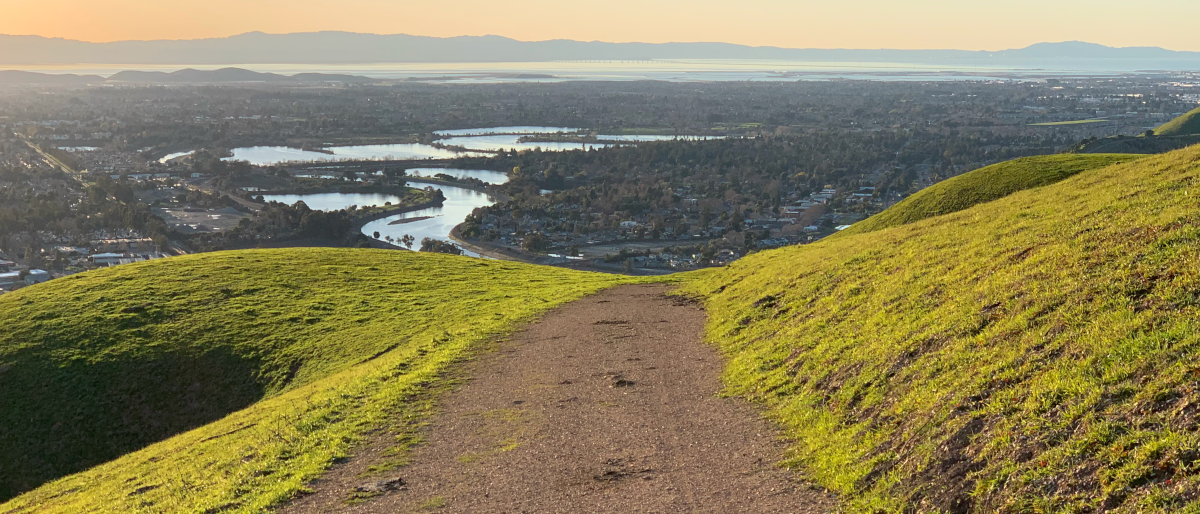
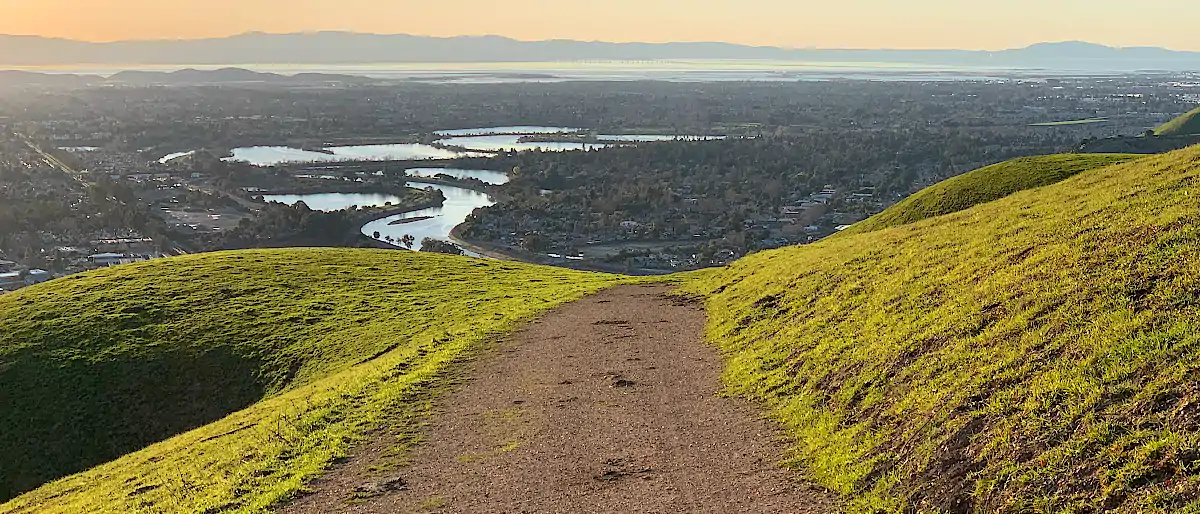
Timestamp, Responsive hero, details

diff --git a/chamber/join.html b/chamber/join.html
@@ -67,17 +67,28 @@
     </header>
     <main>
         <div id="wide-hero">
-            <img src="images/hero_join_1200.webp">
+            <picture>
+                <source media="(min-width: 63em)" srcset="images/hero_join_1200.webp">
+                <!--These parent div isn't linear with viewport-->
+                <source media="(min-width: 28em)" srcset="images/hero_join_800.webp">
+                <img src="images/hero_join_400.webp" alt="Cool people doing cool things.">
+            </picture>
             <h2>
                 Your gateway to Fremont Business
             </h2>
+        </div>
+        <div id="join-greeting">
+            <div class="gradient-backdrop">
+                <h2>Join</h2>
+                Joining the Freemont Chamber of Commerce is a good way to get you on the inside track with other Fremont businesses. Take a look at our membership levels and see which one works for you and your business. Join up, we know you won't regret it.
+            </div>
         </div>
         <div id="join-form">
             <div class="gradient-backdrop">
                 <form method="get" action="thankyou.html">
                     <label>First Name* <input type="text" name="firstname" required></label>
                     <label>Last Name* <input type="text" name="lastname" required></label>
-                    <label>Business Position <input type="text" name="position" id="position" minlength="7"
+                    <label>Business Title <input type="text" name="title" id="position" minlength="7"
                             pattern="^[a-zA-Z- ]{7,}"></label>
                     <label>Email* <input type="email" name="email" required placeholder="someone@domain.com"></label>
                     <label>Cell Number* <input type="tel" name="phone" required minlength="4" maxlength="14" pattern="[0-9.\-\(\) ]*"></label>
@@ -93,8 +104,8 @@
                     </label>
                     <!-- four levels. Display benefits on large view. Show increasing cost -->
                     <label>Business Description<textarea rows="7" cols="10"></textarea> </label>
-                    <input type="hidden" name="datetime">
-                    <input type="submit" name="submit">
+                    <input type="hidden" name="datetime" id="hidden-datetime">
+                    <input type="submit" name="submit" value="Join">
                 </form>
             </div>
         </div>
@@ -140,7 +151,7 @@
     <script src="scripts/burger.js"></script>
     <script src="scripts/pinnedmenu.js"></script>
     <script src="scripts/alerts.js"></script>
-    <script src="scripts/validate.js"></script>
+    <script src="scripts/datestamp.js"></script>
 </body>
 
 </html>

diff --git a/chamber/scripts/datestamp.js b/chamber/scripts/datestamp.js
@@ -2,8 +2,25 @@ const currentDate = new Date();
 const currentYear = currentDate.getFullYear();
 
 
-document.querySelector("#year-field").innerText = currentYear;
-document.querySelector("#last-update-field").innerText = document.lastModified;
-document.querySelector("#current-date").textContent = Intl.DateTimeFormat("en-UK", {
-	dateStyle: "full"
-}).format(currentDate);
+const yearFieldID = document.querySelector("#year-field");
+if (yearFieldID != null) {
+	yearFieldID.innerText = currentYear;
+}
+
+
+const lastUpdateID = document.querySelector("#last-update-field");
+if (lastUpdateID != null) {
+	lastUpdateID.innerText = document.lastModified;
+}
+
+const currentDateID = document.querySelector("#current-date");
+if (currentDateID != null) {
+	currentDateID.textContent = Intl.DateTimeFormat("en-UK", {
+		dateStyle: "full"
+	}).format(currentDate);
+}
+
+const formField = document.querySelector("#hidden-datetime");
+if (formField != null) {
+	formField.value = currentDate;
+}

diff --git a/chamber/styles/large.css b/chamber/styles/large.css
@@ -43,9 +43,6 @@
     #menu-mask {
         z-index: -1;
     }
-
-
-
     main {
         grid-template-columns: 1fr 2fr 1fr;
     }
@@ -121,17 +118,17 @@
     }
     #join-form {
         grid-column: 2/3;
-        grid-row: 2/4;
+        grid-row: 2/3;
     }
     #member-benefits {
         grid-column: 3/4;
-        grid-row: 2/4;
-    }
-    #member-benefits div.gradient-backdrop {
-
+        grid-row: 2/3;
     }
     #wide-hero {
         grid-column: 1/4;
+    }
+    #join-greeting {
+        grid-column: 1/2;
     }
     #response {
         grid-column: 2/3;

diff --git a/chamber/styles/base.css b/chamber/styles/base.css
@@ -191,7 +191,8 @@ main {
 #join-form,
 #member-benefits,
 #wide-hero,
-#response {
+#response,
+#join-greeting {
     background-color: var(--drop-shadows);
     border-radius: 0.5em;
     overflow: hidden;
@@ -216,7 +217,9 @@ main {
 #hero picture,
 #hero video,
 #hero img,
-#wide-hero img {
+#wide-hero img,
+#wide-hero picture,
+#wide-hero video {
     width: 100%;
     grid-column: 1/2;
     grid-row: 1/2;

diff --git a/chamber/styles/medium.css b/chamber/styles/medium.css
@@ -156,13 +156,21 @@
     }
     #wide-hero {
         grid-column: 1/3;
+        grid-row: 1/2;
+    }
+    #join-greeting {
+        grid-column: 1/3;
+        grid-row: 2/3;
     }
     #join-form {
         grid-column: 1/2;
+        grid-row: 3/4;
     }
     #member-benefits {
         grid-column: 2/3;
+        grid-row: 3/4;
     }
+
     #response {
         grid-column: 1/3;
     }
